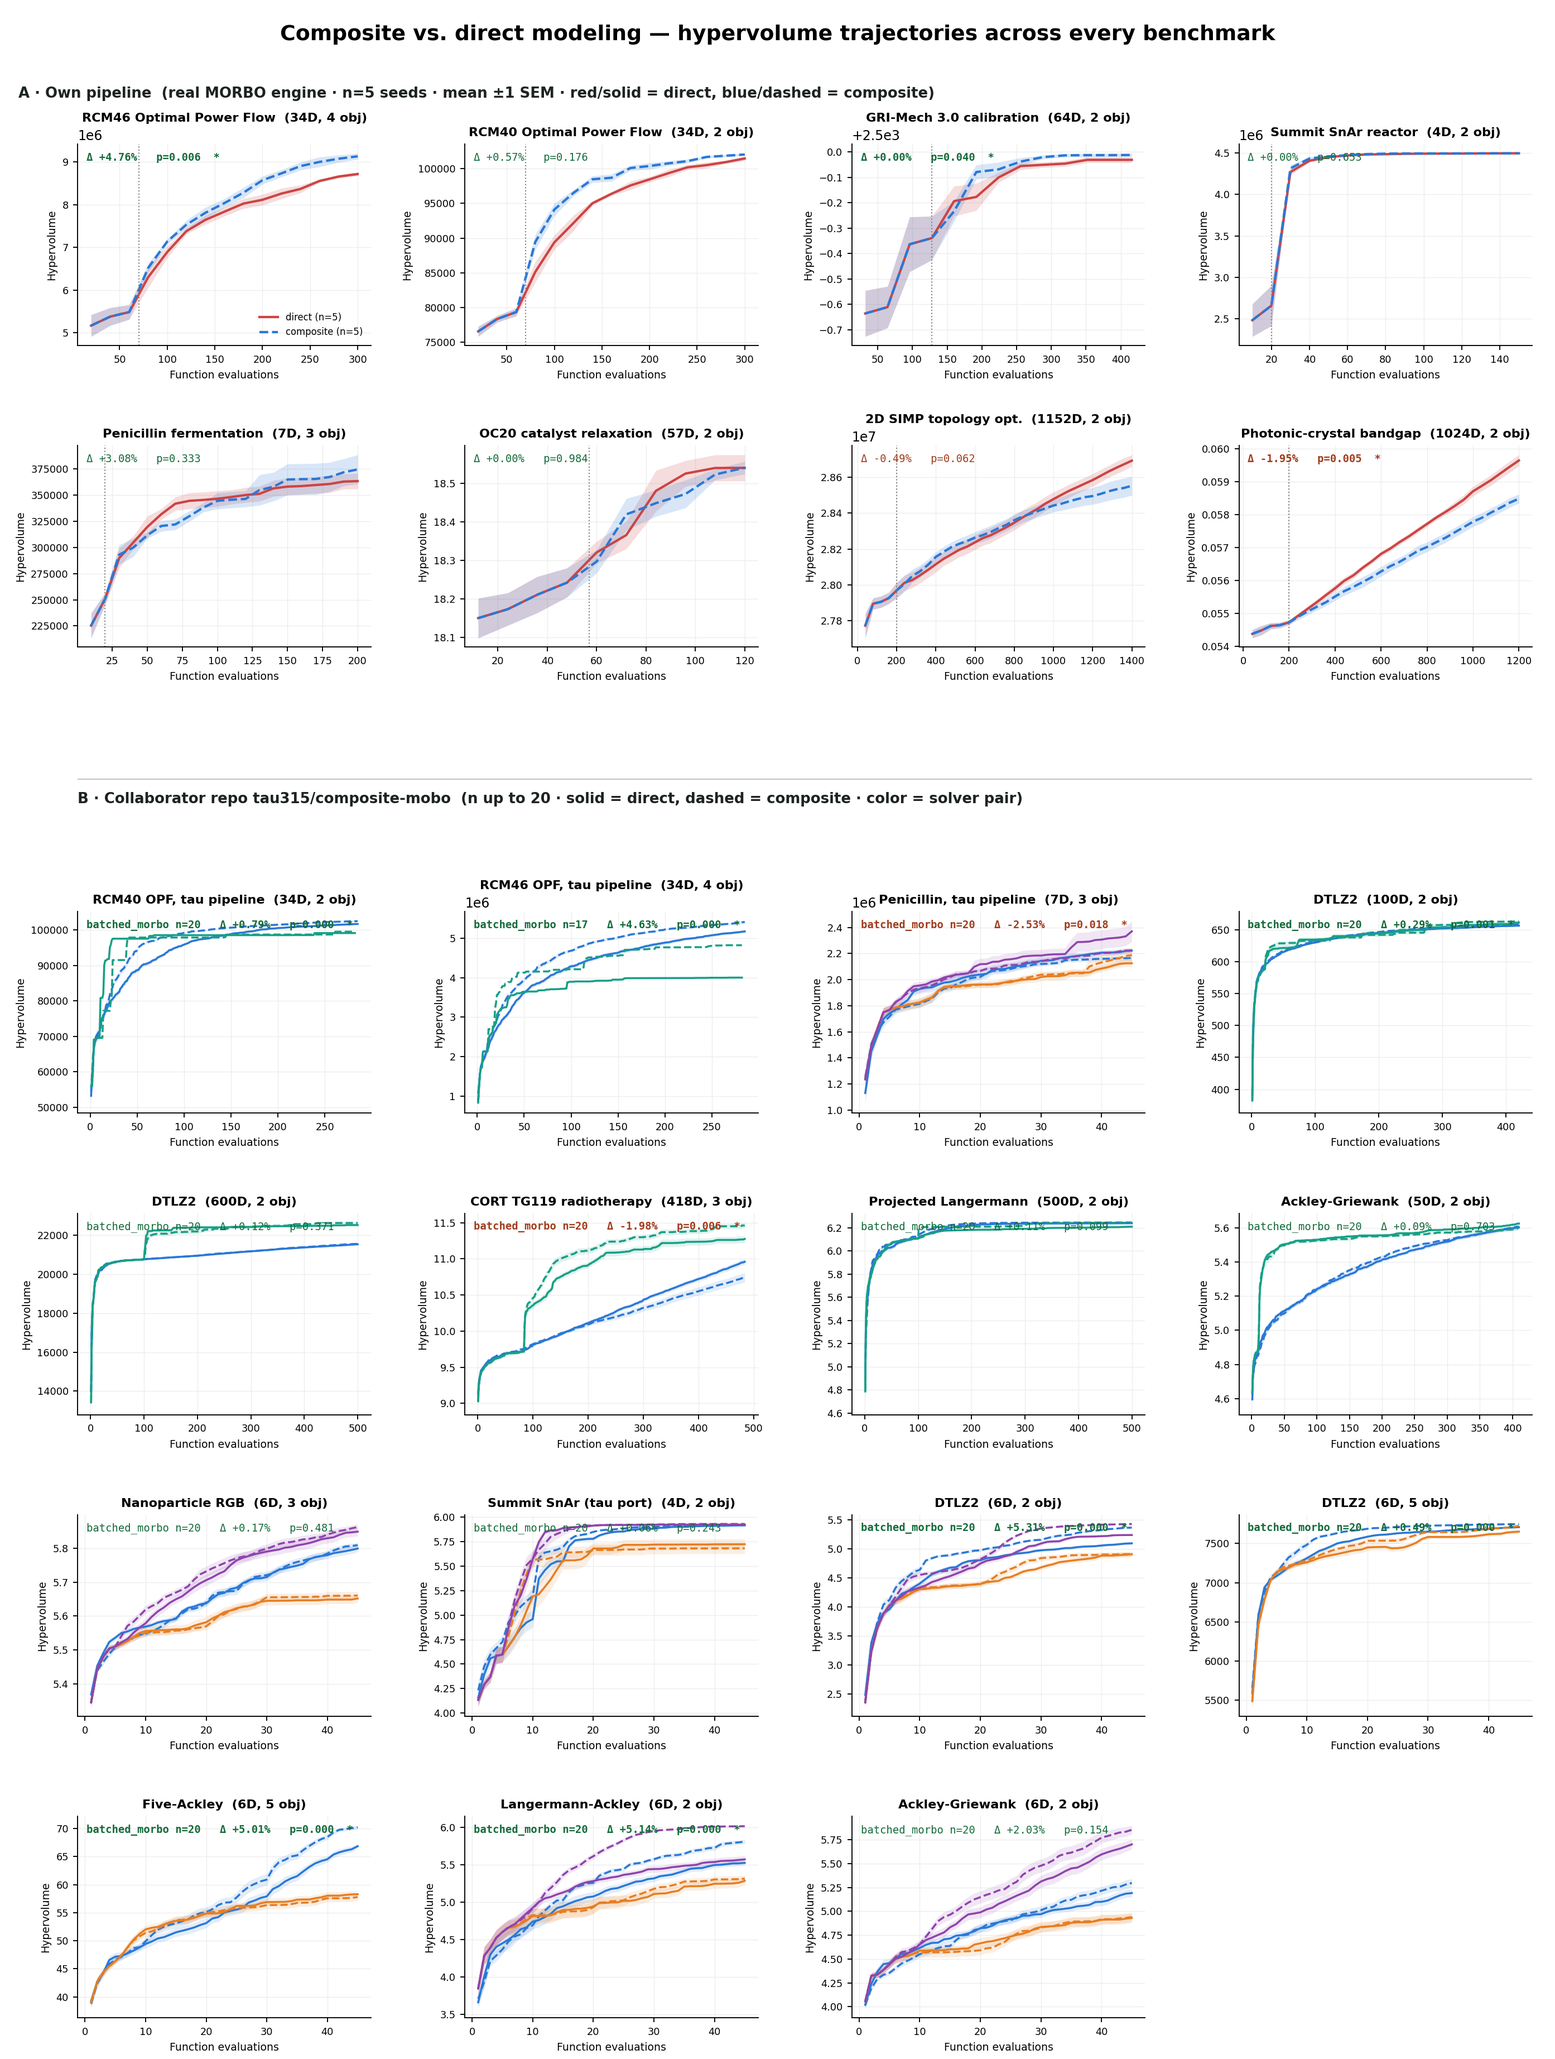
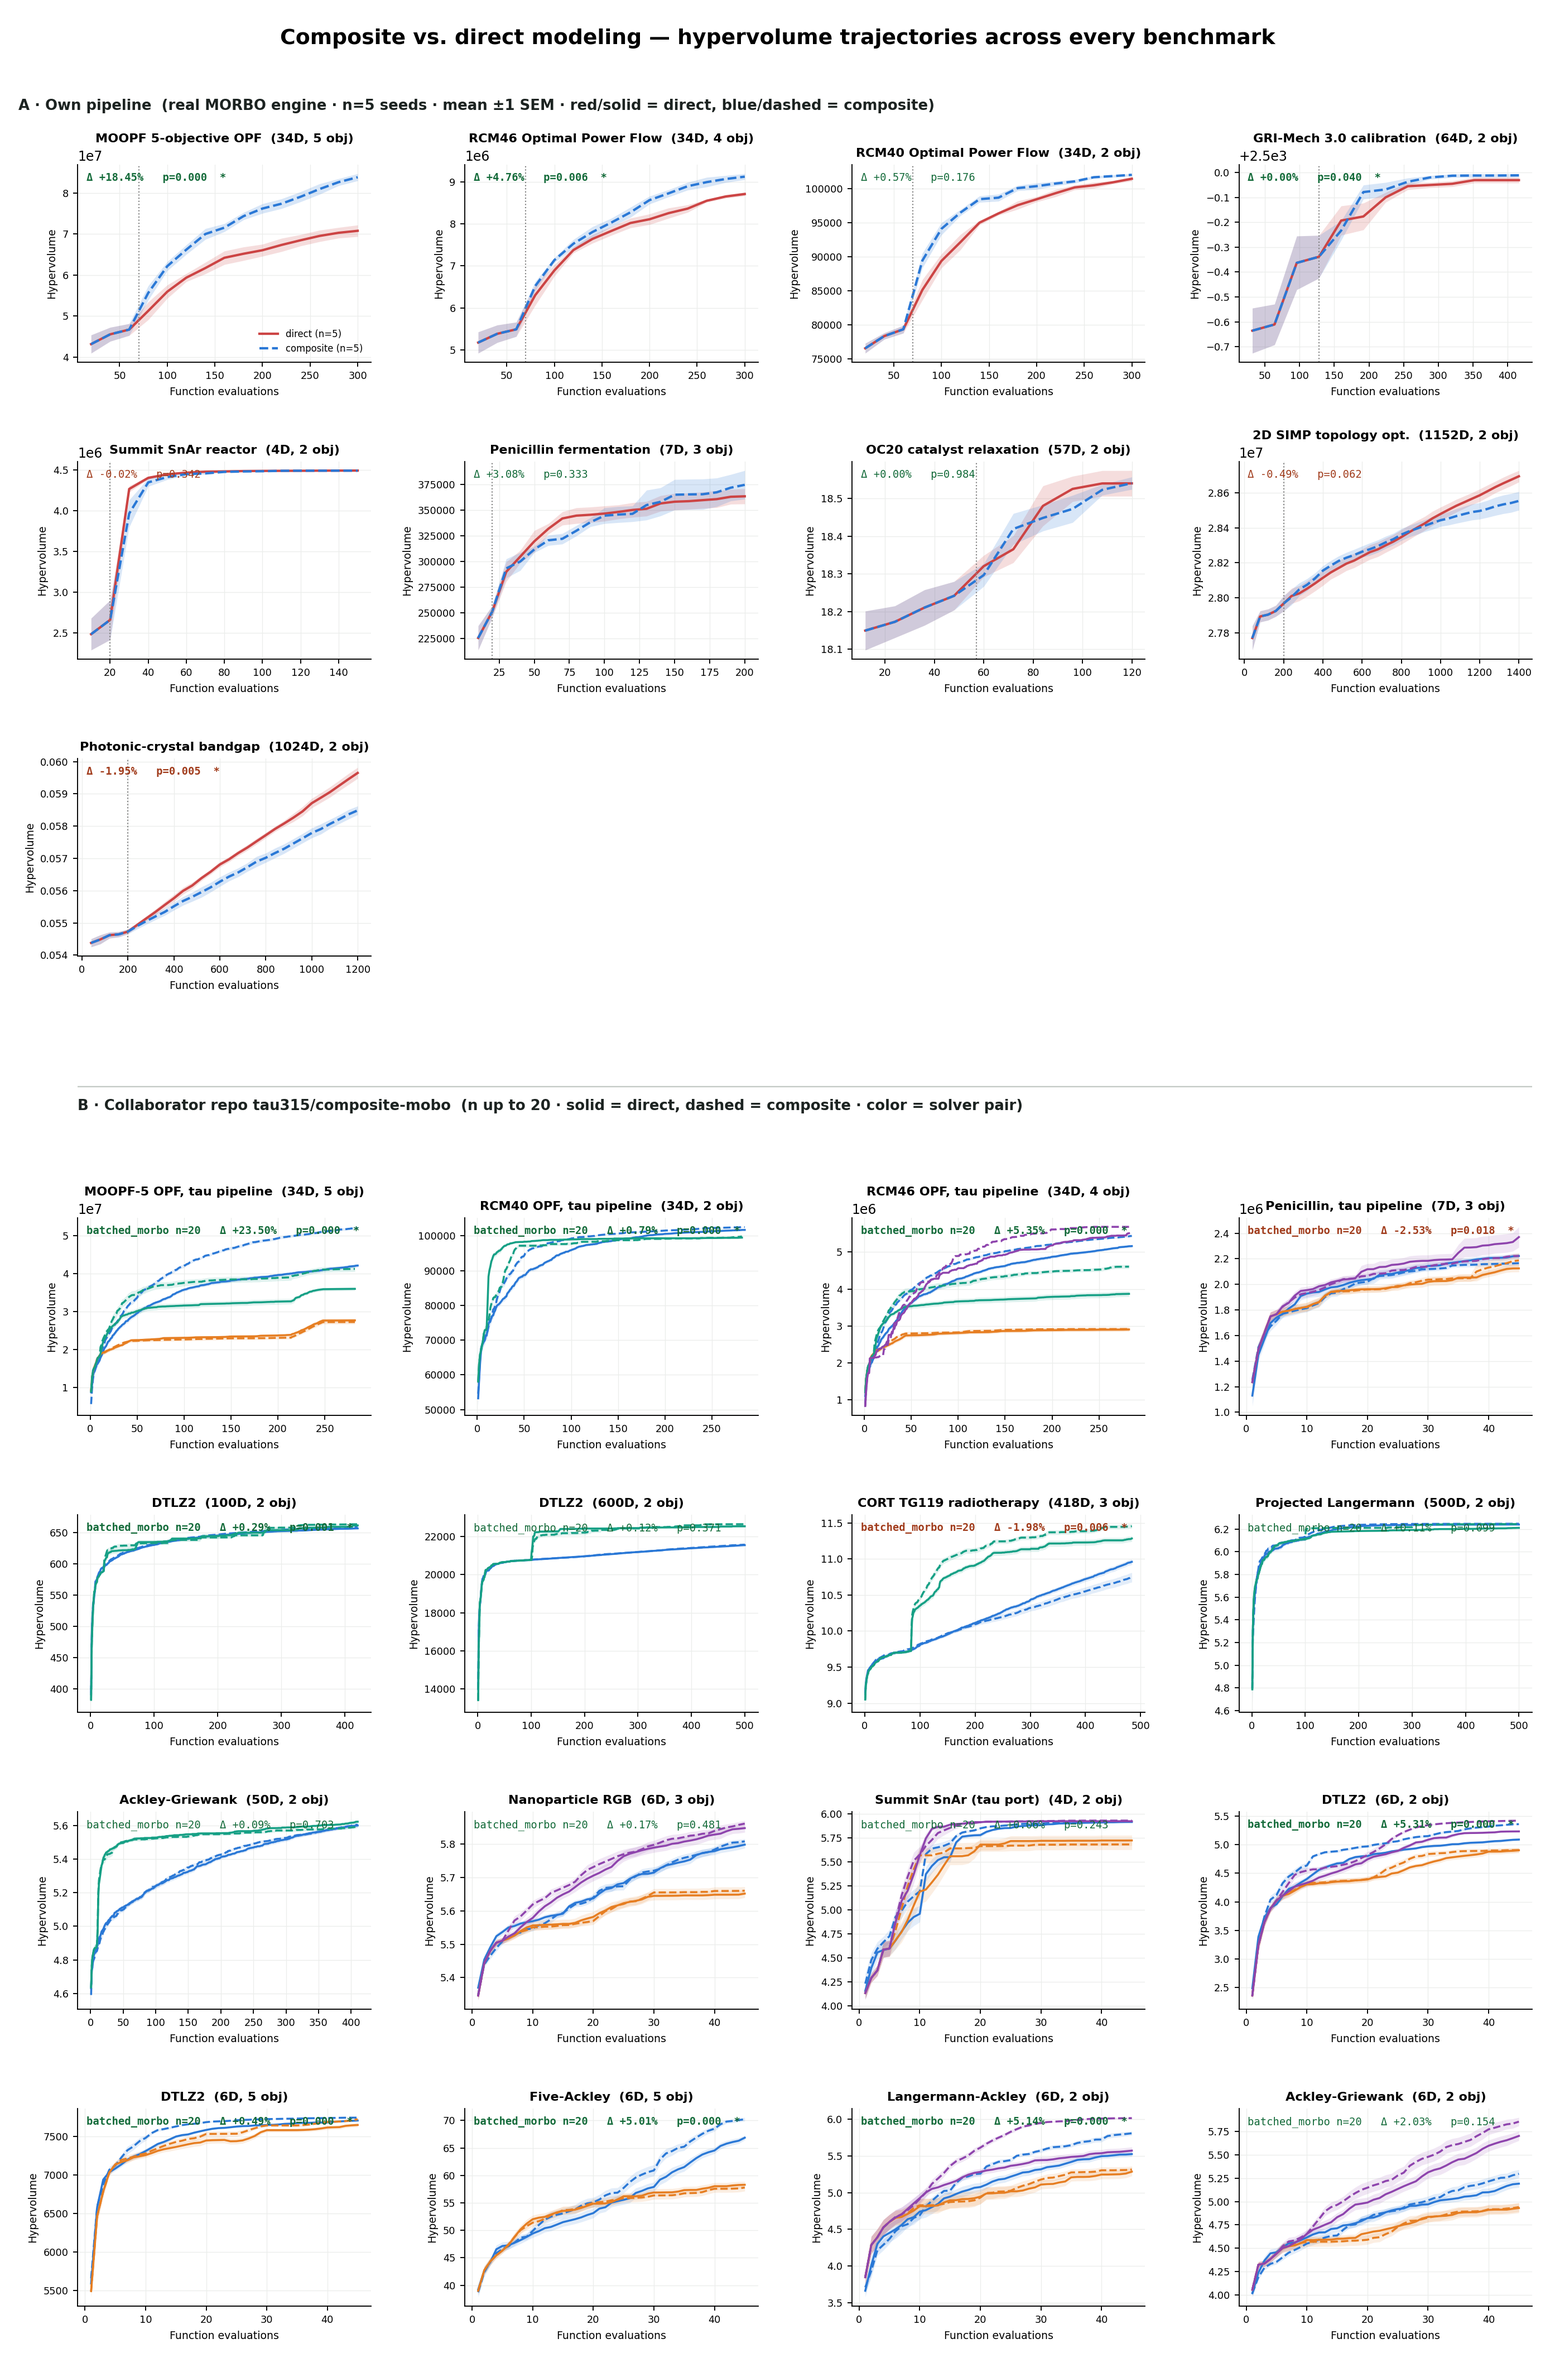
Remake master grid with MOOPF-5; add 3-panel scientific selection figure
- master_compiled_results.png: MOOPF-5 now leads both blocks (own +18.5%,
  tau +23.5%).
- scientific_selection.png: 2 low-dim + 1 high-dim real scientific benchmarks
  chosen to illustrate the thesis -- Summit SnAr (4D chemistry, coupled, tie),
  Nanoparticle RGB (6D optics, coupled, tie), RCM46 OPF (34D power flow,
  decoupled, +5.3% win). Same benchmark class, opposite results, split by
  decoupling not domain/dimension.

diff --git a/make_master_compiled.py b/make_master_compiled.py
@@ -34,6 +34,7 @@ TAU = os.path.join(HERE, "composite_ablation", "results_tau_repo")
 
 # --- Block A: own composite experiments, in narrative order -----------------
 OWN = [
+    ("moopf_composite", "composite_moopf", "MOOPF 5-objective OPF  (34D, 5 obj)"),
     ("rcm46_composite", "composite_rcm46", "RCM46 Optimal Power Flow  (34D, 4 obj)"),
     ("rcm40_composite", "composite_rcm40", "RCM40 Optimal Power Flow  (34D, 2 obj)"),
     ("gri_mech_composite", "composite_gri_mech", "GRI-Mech 3.0 calibration  (64D, 2 obj)"),
@@ -48,6 +49,7 @@ OWN = [
 TAU_ORDER = [
     # This project's own benchmarks, run through tau315's multi-method
     # pipeline (not just our own MORBO engine) -- listed first.
+    ("moopf_5obj_34d", "MOOPF-5 OPF, tau pipeline  (34D, 5 obj)"),
     ("rcm40_2obj_34d", "RCM40 OPF, tau pipeline  (34D, 2 obj)"),
     ("rcm46_4obj_34d", "RCM46 OPF, tau pipeline  (34D, 4 obj)"),
     ("penicillin_3obj_7d", "Penicillin, tau pipeline  (7D, 3 obj)"),
